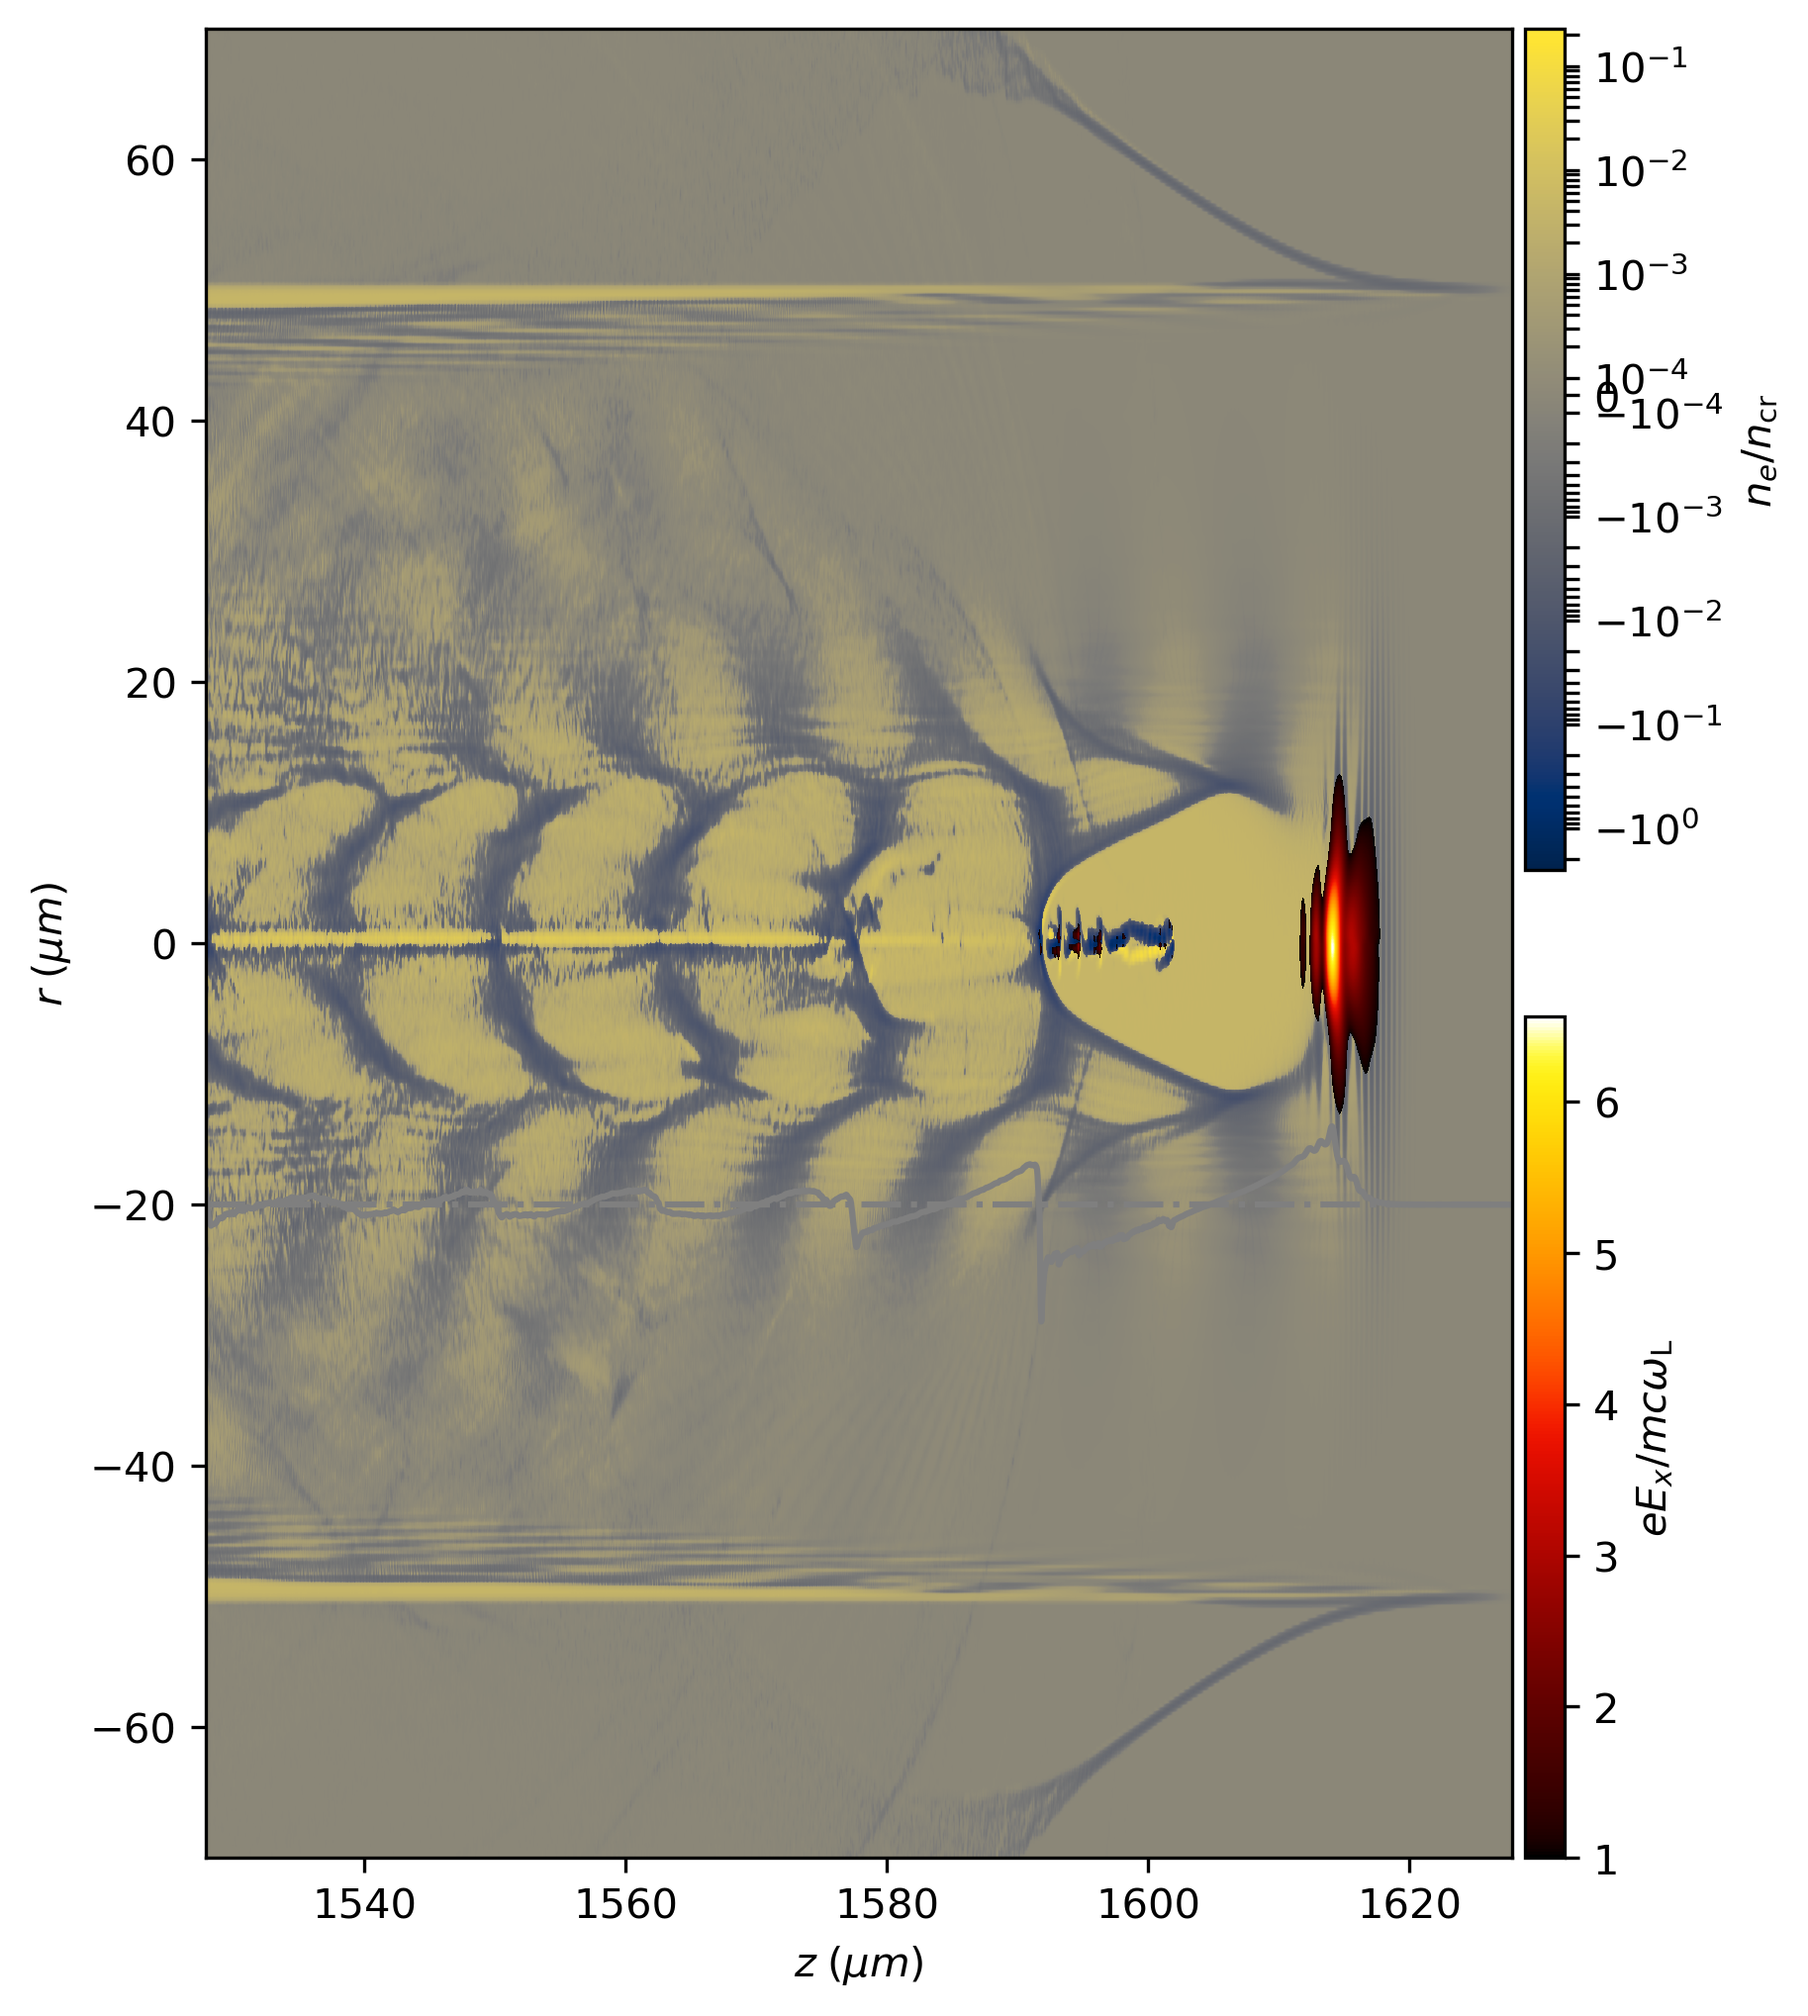
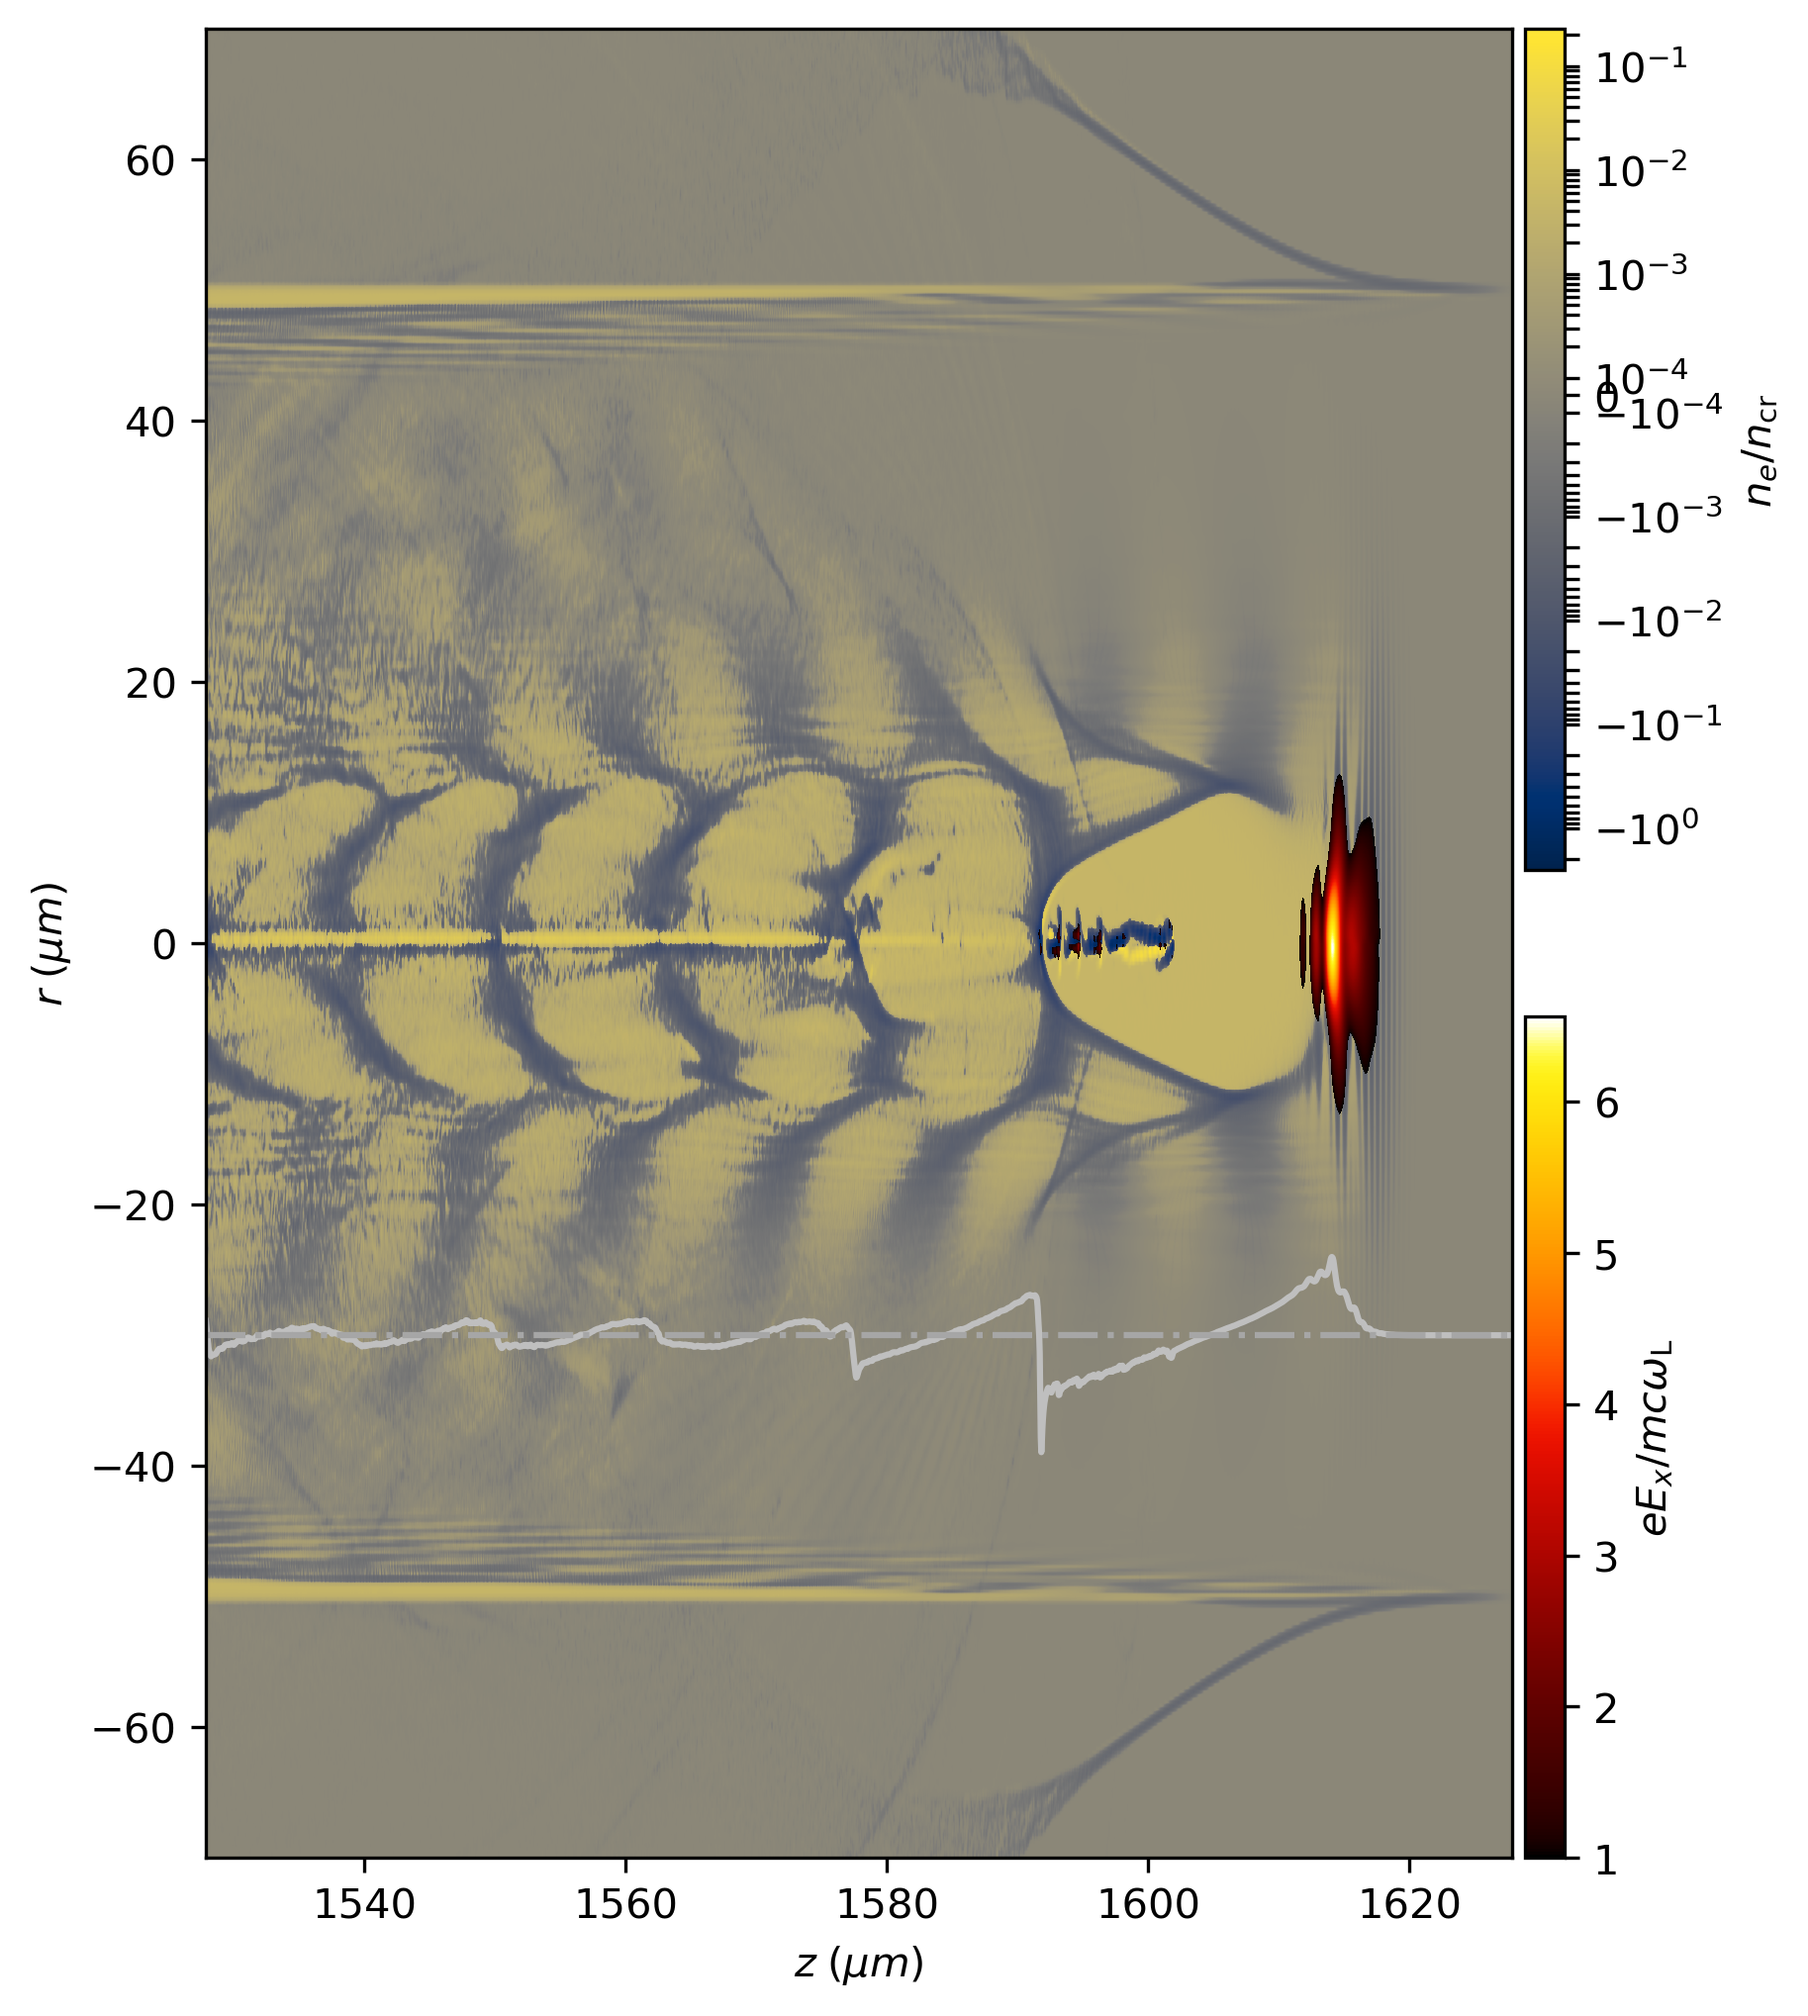
minor edit

diff --git a/laser_density.py b/laser_density.py
@@ -1,17 +1,21 @@
+"""
+Plot on the same figure the laser pulse envelope and the electron density
+from a given fbpic hdf5 file.
+"""
+
 import pathlib
 from copy import copy
 from openpmd_viewer import addons
-from matplotlib import pyplot as plt, colors, cm, rcParams
+from matplotlib import pyplot as plt, colors, cm
 from mpl_toolkits.axes_grid1.inset_locator import inset_axes
 import unyt as u
 from prepic import lwfa
 import numpy as np
-from scipy.signal import hilbert
 import colorcet as cc
 
 
 my_cmap = copy(cc.m_fire)
-my_cmap.set_under("k", alpha=0)
+my_cmap.set_under("white", alpha=0)
 
 a0 = 2.4 * u.dimensionless  # Laser amplitude
 tau = 25.0e-15 / 2.354820045 * u.second  # Laser duration
@@ -44,7 +48,7 @@ rho, rho_info = ts.get_field(
     iteration=40110,
     plot=True,
 )
-envelope, env_info = ts.get_laser_envelope(iteration=40110, pol='x')
+envelope, env_info = ts.get_laser_envelope(iteration=40110, pol="x")
 
 # get longitudinal field
 e_z_of_z, e_z_of_z_info = ts.get_field(
@@ -73,8 +77,8 @@ im_envelope = ax.imshow(
 im_envelope.set_clim(vmin=1.0)
 
 # plot longitudinal field
-ax.plot(e_z_of_z_info.z * 1e6, e_z_of_z / E0 * 25 - 20, color="tab:gray")
-ax.axhline(-20, color="tab:gray", ls="-.")
+ax.plot(e_z_of_z_info.z * 1e6, e_z_of_z / E0 * 25 - 30, color="0.75")
+ax.axhline(-30, color="0.65", ls="-.")
 
 cbaxes_rho = inset_axes(
     ax,
